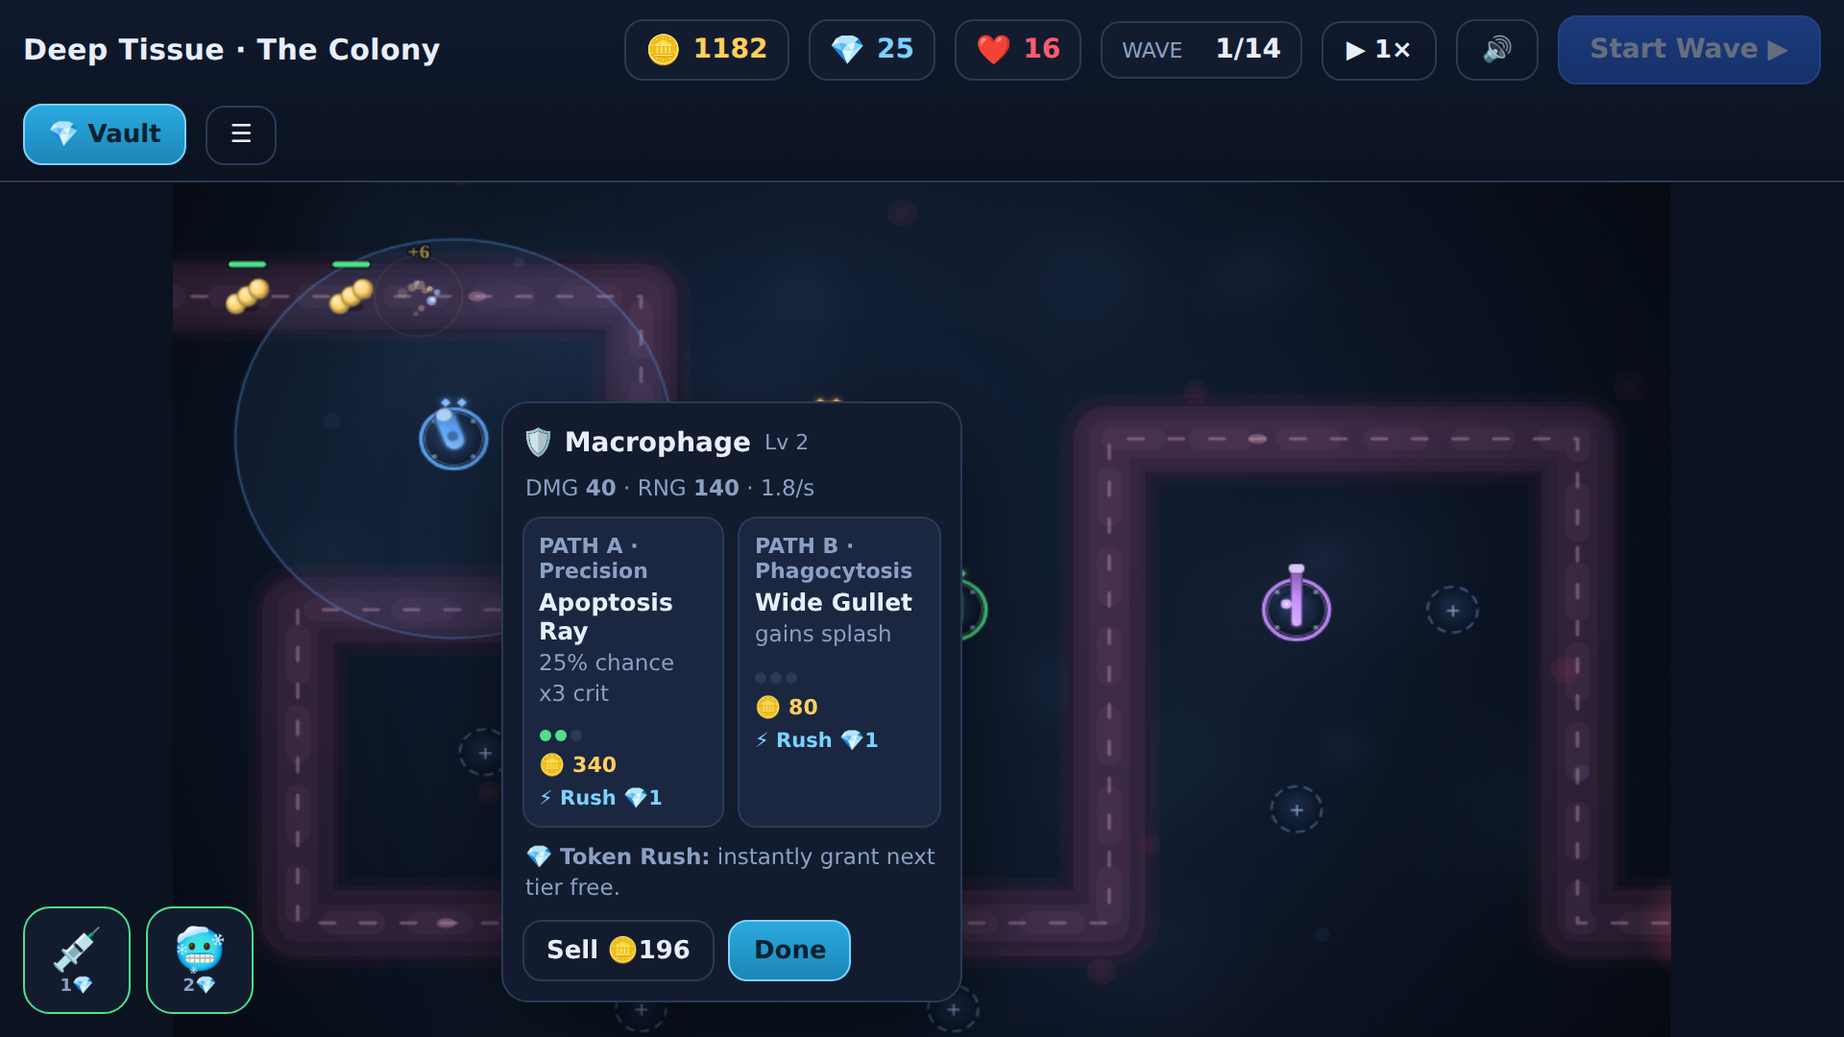
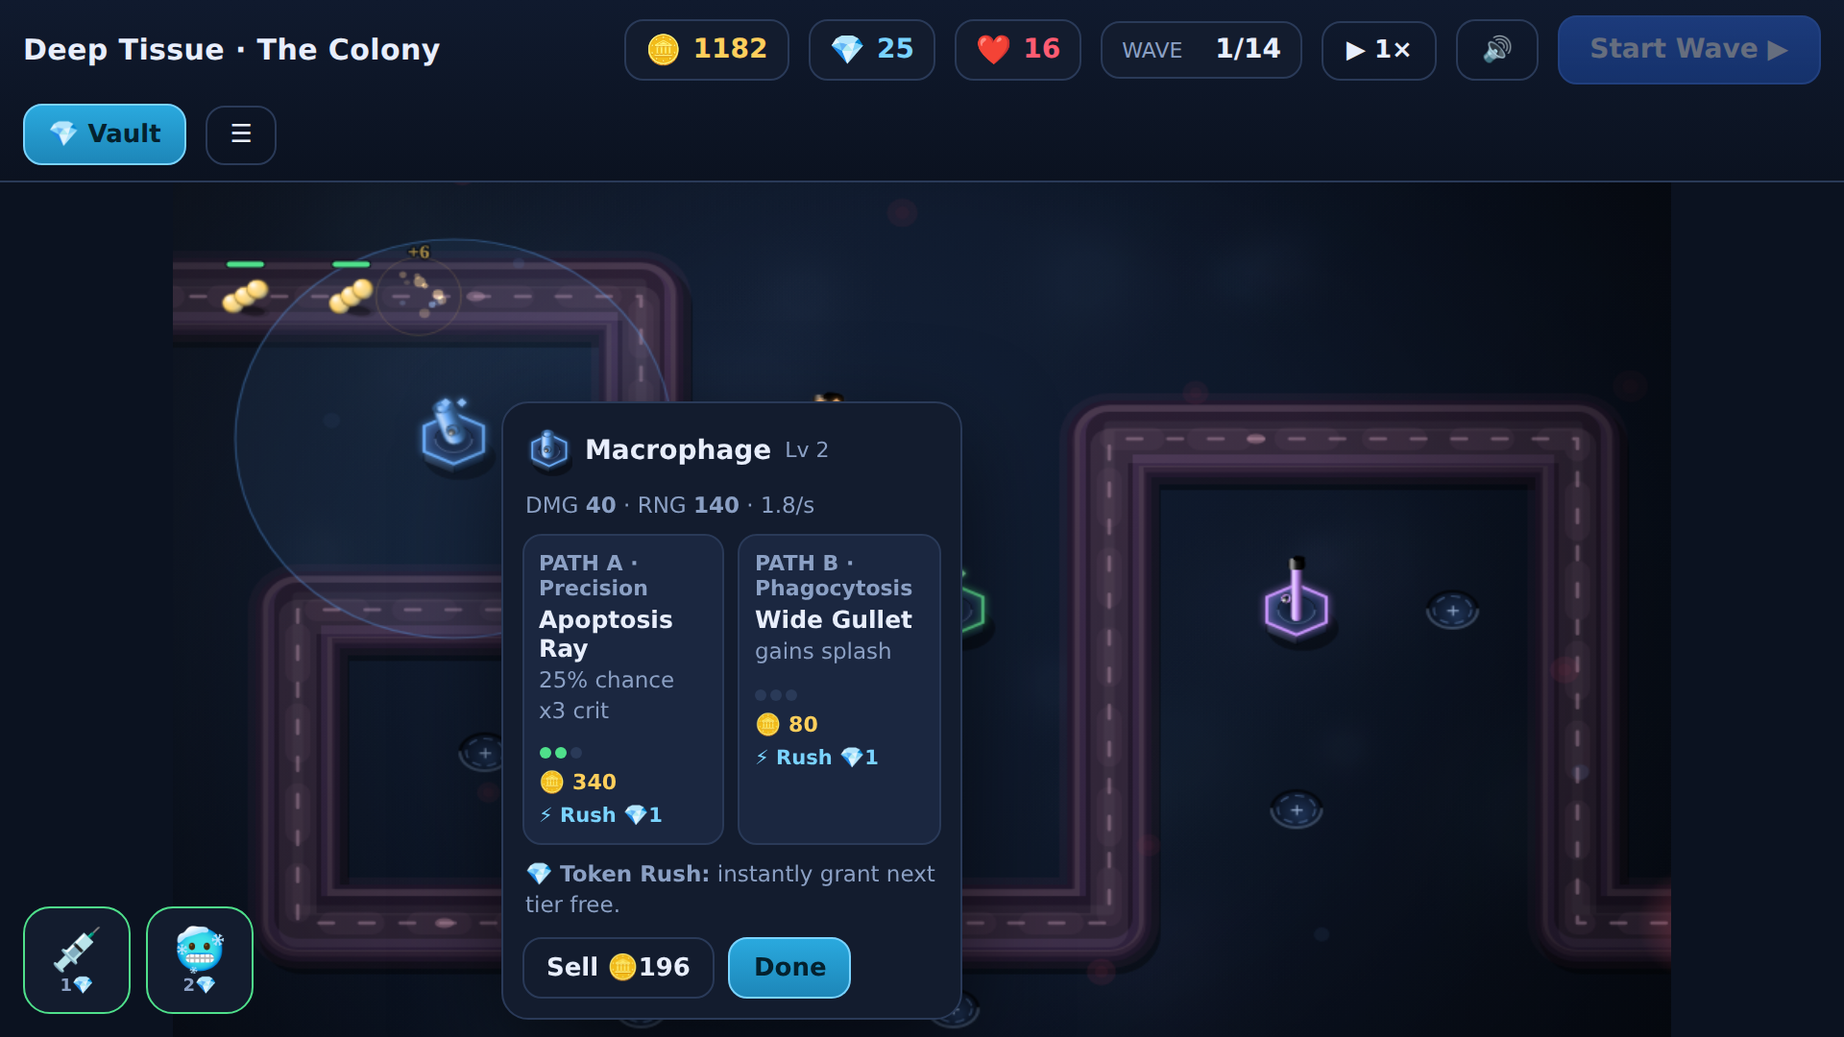
Upgrade artwork to pre-rendered-3D look modeled on top Play TD games
Reviewed the art direction of the leading Play Store tower defenses
(Bloons TD 6 renders 3D towers to sprites over 2D maps; polish comes
from consistent lighting, shadows, and volume). Reproduced that
pre-rendered-3D technique procedurally with one global key light
(top-left):

- Phong shading helpers (diffuse + specular hotspot + cool rim bounce)
  used across all creature and turret sprites
- Tower bases are extruded 3D hexagonal pedestals: lit top face,
  side faces shaded by facing, emissive colored trim, recessed
  elliptical turret mount, directional cast shadow
- Turrets rebuilt as shaded volumes: cylinder bodies with specular
  stripes and end caps, sphere joints, glass shine on the syringe,
  emissive frost orb
- Enemies re-shaded as dimensional creatures: capsule cylinder
  bacterium, phong sphere chains with inter-lobe ambient occlusion on
  MRSA, carved virus core, boss with self-shadowing and glowing eyes
- World depth: vessel is now a raised tube with directional drop
  shadow, top-edge highlight, carved inner occlusion, bounce light and
  gloss line; tissue gets a key-light gradient; build sockets are
  recessed ellipses with dark/lit lips
- All units cast soft directional shadows matching the key light

Still zero binary assets; 60fps held in the dense-wave perf probe.
Store screenshots regenerated; SW cache bumped to v6. All suites pass.

Claude-Session: https://claude.ai/code/session_01CBLR6UDHsp9bXg6zzSDAZ5

diff --git a/tower-defense/index.html b/tower-defense/index.html
@@ -717,30 +717,73 @@ function hexRGB(h){ const n=parseInt(h.slice(1),16); return [n>>16&255, n>>8&255
 function shade(h,f,a){ const c=hexRGB(h); const t=f<0?0:255, p=Math.abs(f);
   return `rgba(${Math.round(c[0]+(t-c[0])*p)},${Math.round(c[1]+(t-c[1])*p)},${Math.round(c[2]+(t-c[2])*p)},${a===undefined?1:a})`; }
 function mkCanvas(w,h){ const c=document.createElement('canvas'); c.width=w; c.height=h; return c; }
+/* ---- pre-rendered-3D shading (global light: top-left) ---- */
+function phongBall(x,bx,by,br,base,spec){
+  let g=x.createRadialGradient(bx-br*0.45,by-br*0.5,br*0.08,bx,by,br*1.05);
+  g.addColorStop(0,shade(base,0.7)); g.addColorStop(0.35,shade(base,0.25));
+  g.addColorStop(0.7,base); g.addColorStop(1,shade(base,-0.62));
+  x.fillStyle=g; x.beginPath(); x.arc(bx,by,br,0,7); x.fill();
+  g=x.createRadialGradient(bx-br*0.42,by-br*0.48,0,bx-br*0.42,by-br*0.48,br*0.4);
+  g.addColorStop(0,'rgba(255,255,255,'+(spec===undefined?0.8:spec)+')'); g.addColorStop(1,'rgba(255,255,255,0)');
+  x.fillStyle=g; x.beginPath(); x.arc(bx,by,br,0,7); x.fill();
+  x.save(); x.beginPath(); x.arc(bx,by,br,0,7); x.clip();
+  g=x.createRadialGradient(bx+br*0.55,by+br*0.6,br*0.15,bx+br*0.55,by+br*0.6,br*0.85);
+  g.addColorStop(0,'rgba(150,195,255,0.25)'); g.addColorStop(1,'rgba(150,195,255,0)');
+  x.fillStyle=g; x.fillRect(bx-br,by-br,br*2,br*2); x.restore();
+}
+function hcyl(x,x0,y0,w,h,col,r){  // horizontal cylinder body (lit from above)
+  let g=x.createLinearGradient(0,y0,0,y0+h);
+  g.addColorStop(0,shade(col,-0.1)); g.addColorStop(0.22,shade(col,0.68));
+  g.addColorStop(0.5,shade(col,0.08)); g.addColorStop(0.82,shade(col,-0.48)); g.addColorStop(1,shade(col,-0.62));
+  x.fillStyle=g; x.beginPath(); x.roundRect(x0,y0,w,h,r===undefined?h/2:r); x.fill();
+}
+function capEllipse(x,cx,cy,rx,ry,col){ // cylinder end cap
+  let g=x.createRadialGradient(cx-rx*0.3,cy-ry*0.4,rx*0.1,cx,cy,rx);
+  g.addColorStop(0,shade(col,0.5)); g.addColorStop(0.7,shade(col,-0.1)); g.addColorStop(1,shade(col,-0.5));
+  x.fillStyle=g; x.beginPath(); x.ellipse(cx,cy,rx,ry,0,0,7); x.fill();
+}
 
 /* ---- sprite cache: towers & enemies rendered once, blitted per frame ---- */
 const SPRITES={ towerBase:{}, towerGun:{}, enemy:{} };
 
 function towerBaseSprite(key){
   if(SPRITES.towerBase[key]) return SPRITES.towerBase[key];
-  const col=TOWERS[key].color, S=56, c=mkCanvas(S,S), x=c.getContext('2d'), m=S/2;
-  // drop shadow
-  x.fillStyle='rgba(0,0,0,0.45)'; x.beginPath(); x.ellipse(m,m+3,21,19,0,0,7); x.fill();
-  // plate
-  let g=x.createRadialGradient(m-6,m-8,4,m,m,22);
-  g.addColorStop(0,'#223454'); g.addColorStop(0.7,'#101c31'); g.addColorStop(1,'#0a1322');
-  x.fillStyle=g; x.beginPath(); x.arc(m,m,21,0,7); x.fill();
-  // colored rim
-  x.lineWidth=2.5; x.strokeStyle=shade(col,0,0.95); x.beginPath(); x.arc(m,m,21,0,7); x.stroke();
-  x.lineWidth=1; x.strokeStyle=shade(col,0.5,0.35); x.beginPath(); x.arc(m,m,18.5,0,7); x.stroke();
-  // inner disc
-  g=x.createRadialGradient(m-4,m-5,2,m,m,14);
-  g.addColorStop(0,'#2a3f66'); g.addColorStop(1,'#131f36');
-  x.fillStyle=g; x.beginPath(); x.arc(m,m,14,0,7); x.fill();
-  // bolts
-  x.fillStyle='rgba(180,205,240,0.55)';
-  for(let i=0;i<4;i++){ const a=Math.PI/4+i*Math.PI/2;
-    x.beginPath(); x.arc(m+Math.cos(a)*17.5, m+Math.sin(a)*17.5, 1.6, 0, 7); x.fill(); }
+  const col=TOWERS[key].color, S=60, c=mkCanvas(S,S), x=c.getContext('2d'), m=S/2;
+  const R=22, SQ=0.8, DEPTH=7, top=m-3;
+  const hex=dy=>{ const pts=[]; for(let i=0;i<6;i++){ const a=i*Math.PI/3+Math.PI/6;
+    pts.push([m+Math.cos(a)*R, top+Math.sin(a)*R*SQ+(dy||0)]); } return pts; };
+  const tp=hex(0), bp=hex(DEPTH);
+  // directional cast shadow
+  x.fillStyle='rgba(0,0,0,0.4)'; x.beginPath();
+  x.ellipse(m+4,top+DEPTH+6,R+1,R*SQ*0.9,0,0,7); x.fill();
+  // extruded side faces (front-facing edges only), lit from the left
+  for(let i=0;i<6;i++){ const a=tp[i], b=tp[(i+1)%6];
+    if((a[1]+b[1])/2 <= top) continue;
+    const midx=(a[0]+b[0])/2;
+    let g=x.createLinearGradient(0,top,0,top+R*SQ+DEPTH);
+    const lit=midx<m?0.12:-0.12;
+    g.addColorStop(0,shade('#233757',lit)); g.addColorStop(1,shade('#0a1322',lit*0.5));
+    x.fillStyle=g; x.beginPath();
+    x.moveTo(a[0],a[1]); x.lineTo(b[0],b[1]);
+    x.lineTo(bp[(i+1)%6][0],bp[(i+1)%6][1]); x.lineTo(bp[i][0],bp[i][1]);
+    x.closePath(); x.fill();
+    x.strokeStyle='rgba(0,0,0,0.35)'; x.lineWidth=0.7; x.stroke(); }
+  // top face, lit top-left
+  let g=x.createLinearGradient(m-R,top-R*SQ,m+R,top+R*SQ);
+  g.addColorStop(0,'#3a5484'); g.addColorStop(0.45,'#22345a'); g.addColorStop(1,'#101c33');
+  x.fillStyle=g; x.beginPath();
+  tp.forEach((pt,i)=> i?x.lineTo(pt[0],pt[1]):x.moveTo(pt[0],pt[1])); x.closePath(); x.fill();
+  // emissive colored trim on the top face
+  x.lineWidth=2; x.strokeStyle=shade(col,0.1,0.95);
+  x.shadowColor=col; x.shadowBlur=5; x.stroke(); x.shadowBlur=0;
+  // recessed turret mount
+  g=x.createRadialGradient(m-3,top-3,2,m,top,12);
+  g.addColorStop(0,'#101b30'); g.addColorStop(0.8,'#1c2c4c'); g.addColorStop(1,'#2c4066');
+  x.fillStyle=g; x.beginPath(); x.ellipse(m,top,12,12*SQ,0,0,7); x.fill();
+  x.strokeStyle='rgba(0,0,0,0.5)'; x.lineWidth=1;
+  x.beginPath(); x.ellipse(m,top,12,12*SQ,0,Math.PI,Math.PI*2); x.stroke();
+  x.strokeStyle='rgba(190,215,255,0.25)';
+  x.beginPath(); x.ellipse(m,top,12,12*SQ,0,0,Math.PI); x.stroke();
   return SPRITES.towerBase[key]=c;
 }
 
@@ -748,42 +791,40 @@ function towerGunSprite(key){
   if(SPRITES.towerGun[key]) return SPRITES.towerGun[key];
   const col=TOWERS[key].color, c=mkCanvas(60,30), x=c.getContext('2d');
   // pivot at (20,15), gun points right
-  const grad=(x0,x1,l,d)=>{ const g=x.createLinearGradient(x0,6,x1,24);
-    g.addColorStop(0,shade(col,l)); g.addColorStop(0.5,col); g.addColorStop(1,shade(col,d)); return g; };
   x.lineJoin='round';
-  if(key==='macro'){           // organic engulfing pod
-    x.fillStyle=grad(10,44,0.45,-0.4);
-    x.beginPath(); x.roundRect(12,8,30,14,7); x.fill();
-    x.strokeStyle=shade(col,-0.5); x.lineWidth=1.5; x.stroke();
-    x.fillStyle=shade(col,0.65,0.9); x.beginPath(); x.ellipse(38,15,4.5,5,0,0,7); x.fill();
-    x.fillStyle=shade(col,-0.35); x.beginPath(); x.arc(22,15,3.5,0,7); x.fill();
-  } else if(key==='neutro'){   // stout mortar
-    x.fillStyle=grad(10,46,0.4,-0.45);
-    x.beginPath(); x.roundRect(10,7,34,16,4); x.fill();
-    x.strokeStyle=shade(col,-0.55); x.lineWidth=1.5; x.stroke();
-    x.fillStyle=shade(col,-0.4); x.fillRect(24,6,4,18);
-    x.fillStyle=shade(col,0.5,0.95); x.beginPath(); x.roundRect(40,5,6,20,3); x.fill();
-    x.strokeStyle=shade(col,-0.5); x.stroke();
-  } else if(key==='abx'){      // antibiotic syringe
-    x.fillStyle=grad(8,34,0.5,-0.35);
-    x.beginPath(); x.roundRect(10,9,24,12,4); x.fill();
-    x.strokeStyle=shade(col,-0.5); x.lineWidth=1.5; x.stroke();
-    x.fillStyle='rgba(220,235,255,0.9)'; x.fillRect(34,13.5,12,3);      // needle
-    x.fillStyle=shade(col,-0.25); x.beginPath(); x.roundRect(4,11,7,8,2); x.fill(); // plunger
-    x.fillStyle='rgba(255,255,255,0.35)'; x.fillRect(14,11,14,3);       // glass shine
-  } else if(key==='tcell'){    // long-range receptor rifle
-    x.fillStyle=grad(8,50,0.4,-0.45);
-    x.beginPath(); x.roundRect(8,11.5,42,7,3.5); x.fill();
-    x.strokeStyle=shade(col,-0.5); x.lineWidth=1.2; x.stroke();
-    x.fillStyle=shade(col,0.55,0.95); x.beginPath(); x.roundRect(46,10,6,10,2.5); x.fill();
-    x.fillStyle=shade(col,0.3); x.beginPath(); x.arc(24,8.5,3.4,0,7); x.fill();   // scope
-    x.fillStyle='#e8eefc'; x.beginPath(); x.arc(24,8.5,1.3,0,7); x.fill();
-  } else {                     // fever coil: crystal chevrons
-    x.strokeStyle=shade(col,0.15,0.95); x.lineWidth=3; x.lineCap='round';
+  if(key==='macro'){           // organic engulfing pod: shaded capsule + core
+    hcyl(x,12,8,30,14,col,7);
+    capEllipse(x,40,15,4.5,7,col);
+    phongBall(x,22,15,4.2,shade(col,-0.2),0.6);
+    x.strokeStyle=shade(col,-0.55,0.8); x.lineWidth=1; x.beginPath(); x.roundRect(12,8,30,14,7); x.stroke();
+  } else if(key==='neutro'){   // stout mortar: barrel + breech band + muzzle ring
+    hcyl(x,10,7,34,16,col,5);
+    hcyl(x,23,5,5,20,shade(col,-0.25),2.5);
+    hcyl(x,40,5,7,20,shade(col,0.12),3.5);
+    capEllipse(x,46,15,2.6,9,shade(col,-0.15));
+    x.fillStyle='rgba(0,0,0,0.55)'; x.beginPath(); x.ellipse(46,15,1.6,6,0,0,7); x.fill();
+  } else if(key==='abx'){      // syringe: glass barrel + plunger + needle
+    hcyl(x,10,9,24,12,col,4);
+    x.fillStyle='rgba(255,255,255,0.4)'; x.beginPath(); x.roundRect(13,10.5,17,3,1.5); x.fill();
+    hcyl(x,3,11,8,8,shade(col,-0.3),2);
+    let g=x.createLinearGradient(0,13,0,17);
+    g.addColorStop(0,'#f4f9ff'); g.addColorStop(0.5,'#b9c9de'); g.addColorStop(1,'#7787a0');
+    x.fillStyle=g; x.fillRect(34,13.5,12,3);
+    capEllipse(x,34,15,1.6,6,shade(col,0.1));
+  } else if(key==='tcell'){    // receptor rifle: long barrel + scope sphere + muzzle
+    hcyl(x,8,11.5,42,7,col,3.5);
+    hcyl(x,44,9.5,8,11,shade(col,0.12),3);
+    capEllipse(x,52,15,1.8,5.5,shade(col,0.05));
+    phongBall(x,24,8.5,3.6,shade(col,0.15),0.9);
+    x.fillStyle='#0c1424'; x.beginPath(); x.arc(24.6,8.9,1.2,0,7); x.fill();
+  } else {                     // fever coil: crystal chevrons + frost orb
+    x.lineCap='round';
     for(let i=0;i<3;i++){ const bx=14+i*10;
-      x.beginPath(); x.moveTo(bx,8); x.lineTo(bx+7,15); x.lineTo(bx,22); x.stroke(); }
-    x.fillStyle=shade(col,0.6,0.95); x.beginPath(); x.arc(46,15,4,0,7); x.fill();
-    x.strokeStyle=shade(col,-0.3); x.lineWidth=1; x.beginPath(); x.arc(46,15,4,0,7); x.stroke();
+      x.strokeStyle=shade(col,-0.35,0.9); x.lineWidth=4.2;
+      x.beginPath(); x.moveTo(bx,9); x.lineTo(bx+7,15); x.lineTo(bx,21); x.stroke();
+      x.strokeStyle=shade(col,0.55,0.95); x.lineWidth=2;
+      x.beginPath(); x.moveTo(bx-0.5,8); x.lineTo(bx+6.5,14.5); x.lineTo(bx-0.5,20.5); x.stroke(); }
+    phongBall(x,46,15,4.5,col,0.95);
   }
   return SPRITES.towerGun[key]=c;
 }
@@ -792,21 +833,23 @@ function enemySprite(type){
   if(SPRITES.enemy[type]) return SPRITES.enemy[type];
   const def=ENEMIES[type], col=def.color, r=def.r, S=Math.ceil(r*3.6+8), m=S/2;
   const c=mkCanvas(S,S), x=c.getContext('2d');
-  const ball=(bx,by,br,base)=>{ const g=x.createRadialGradient(bx-br*0.35,by-br*0.4,br*0.15,bx,by,br);
-    g.addColorStop(0,shade(base,0.55)); g.addColorStop(0.55,base); g.addColorStop(1,shade(base,-0.45));
-    x.fillStyle=g; x.beginPath(); x.arc(bx,by,br,0,7); x.fill(); };
+  const ball=(bx,by,br,base)=>phongBall(x,bx,by,br,base,0.7);
   if(type==='bacterium'){
-    const g=x.createLinearGradient(m,m-r,m,m+r);
-    g.addColorStop(0,shade(col,0.5)); g.addColorStop(0.5,col); g.addColorStop(1,shade(col,-0.45));
-    x.fillStyle=g; x.beginPath(); x.roundRect(m-r*1.25,m-r*0.75,r*2.5,r*1.5,r*0.75); x.fill();
-    x.strokeStyle=shade(col,-0.55); x.lineWidth=2; x.stroke();
-    x.fillStyle=shade(col,-0.35,0.9);
-    [[-0.5,-0.1],[0.1,0.2],[0.55,-0.15]].forEach(o=>{ x.beginPath(); x.arc(m+o[0]*r,m+o[1]*r,r*0.2,0,7); x.fill(); });
-    x.fillStyle='rgba(255,255,255,0.3)'; x.beginPath(); x.ellipse(m-r*0.4,m-r*0.42,r*0.7,r*0.22,-0.2,0,7); x.fill();
+    hcyl(x,m-r*1.25,m-r*0.75,r*2.5,r*1.5,col,r*0.75);
+    x.strokeStyle=shade(col,-0.55,0.8); x.lineWidth=1.5;
+    x.beginPath(); x.roundRect(m-r*1.25,m-r*0.75,r*2.5,r*1.5,r*0.75); x.stroke();
+    [[-0.5,-0.05],[0.1,0.2],[0.55,-0.1]].forEach(o=>phongBall(x,m+o[0]*r,m+o[1]*r,r*0.22,shade(col,-0.25),0.5));
+    let g=x.createRadialGradient(m-r*0.6,m-r*0.5,0,m-r*0.6,m-r*0.5,r*0.7);
+    g.addColorStop(0,'rgba(255,255,255,0.65)'); g.addColorStop(1,'rgba(255,255,255,0)');
+    x.fillStyle=g; x.beginPath(); x.ellipse(m-r*0.45,m-r*0.4,r*0.75,r*0.3,-0.25,0,7); x.fill();
   } else if(type==='strep'){
     [[-0.85,0.55],[0,0],[0.85,-0.55]].forEach(o=>ball(m+o[0]*r, m+o[1]*r, r*0.78, col));
   } else if(type==='staph'){
-    [[0,-0.62],[-0.62,0.15],[0.62,0.15],[0,0.7],[0,0]].forEach(o=>ball(m+o[0]*r, m+o[1]*r, r*0.55, col));
+    [[0.62,0.15],[0,0.7],[0,-0.62],[-0.62,0.15],[0,0]].forEach((o,i)=>{
+      ball(m+o[0]*r, m+o[1]*r, r*0.55, i<2?shade(col,-0.18):col);
+      if(i<4){ x.fillStyle='rgba(0,0,0,0.22)';
+        x.beginPath(); x.ellipse(m+o[0]*r*0.55, m+o[1]*r*0.55, r*0.4, r*0.3, 0, 0, 7); x.fill(); } });
+    ball(m,m,r*0.55,shade(col,0.08));
     x.strokeStyle='rgba(230,240,255,0.55)'; x.lineWidth=2.2;
     x.beginPath(); x.arc(m,m,r*1.18,0,7); x.stroke();
     x.strokeStyle='rgba(230,240,255,0.2)'; x.lineWidth=5;
@@ -818,10 +861,14 @@ function enemySprite(type){
       x.lineTo(m+Math.cos(a)*r*1.65, m+Math.sin(a)*r*1.65); x.stroke();
       x.fillStyle=shade(col,0.35); x.beginPath(); x.arc(m+Math.cos(a)*r*1.65, m+Math.sin(a)*r*1.65, r*0.24, 0, 7); x.fill(); }
     ball(m,m,r*0.95,col);
-    x.fillStyle=shade(col,-0.4,0.85); x.beginPath(); x.arc(m,m,r*0.4,0,7); x.fill();
+    let g=x.createRadialGradient(m,m,r*0.1,m,m,r*0.45);
+    g.addColorStop(0,shade(col,-0.55,0.95)); g.addColorStop(1,shade(col,-0.2,0.2));
+    x.fillStyle=g; x.beginPath(); x.arc(m,m,r*0.42,0,7); x.fill();
   } else if(type==='fungus'){
-    x.fillStyle='#e8d9c3'; x.beginPath(); x.roundRect(m-r*0.4,m,r*0.8,r*0.95,r*0.3); x.fill();
-    x.strokeStyle='rgba(90,60,40,0.4)'; x.lineWidth=1.5; x.stroke();
+    let sg=x.createLinearGradient(m-r*0.4,0,m+r*0.4,0);
+    sg.addColorStop(0,'#f5ead8'); sg.addColorStop(0.45,'#e2d0b5'); sg.addColorStop(1,'#a9906e');
+    x.fillStyle=sg; x.beginPath(); x.roundRect(m-r*0.4,m,r*0.8,r*0.95,r*0.3); x.fill();
+    x.strokeStyle='rgba(90,60,40,0.35)'; x.lineWidth=1; x.stroke();
     const g=x.createRadialGradient(m-r*0.3,m-r*0.6,r*0.1,m,m-r*0.25,r*1.15);
     g.addColorStop(0,shade(col,0.45)); g.addColorStop(0.7,col); g.addColorStop(1,shade(col,-0.4));
     x.fillStyle=g; x.beginPath(); x.moveTo(m-r*1.1,m+r*0.05);
@@ -849,14 +896,17 @@ function enemySprite(type){
       x.beginPath(); x.moveTo(m+Math.cos(a)*r*0.8, m+Math.sin(a)*r*0.8);
       x.lineTo(m+Math.cos(a)*r*1.35, m+Math.sin(a)*r*1.35); x.stroke();
       x.fillStyle=shade(col,0.15); x.beginPath(); x.arc(m+Math.cos(a)*r*1.35, m+Math.sin(a)*r*1.35, r*0.12,0,7); x.fill(); }
-    const g=x.createRadialGradient(m-r*0.3,m-r*0.35,r*0.1,m,m,r);
-    g.addColorStop(0,shade(col,0.25)); g.addColorStop(0.6,shade(col,-0.15)); g.addColorStop(1,'#3d0a14');
+    phongBall(x,m,m,r,shade(col,-0.12),0.5);
+    let g=x.createRadialGradient(m+r*0.35,m+r*0.4,r*0.1,m,m,r*1.02);
+    g.addColorStop(0,'rgba(20,2,6,0)'); g.addColorStop(0.75,'rgba(20,2,6,0)'); g.addColorStop(1,'rgba(20,2,6,0.65)');
     x.fillStyle=g; x.beginPath(); x.arc(m,m,r,0,7); x.fill();
-    x.strokeStyle='#2a060d'; x.lineWidth=2.5; x.stroke();
-    // scowling eyes
+    x.strokeStyle='#2a060d'; x.lineWidth=2; x.beginPath(); x.arc(m,m,r,0,7); x.stroke();
+    // scowling eyes (emissive)
+    x.shadowColor='#ffe066'; x.shadowBlur=6;
     x.fillStyle='#ffe066';
     x.beginPath(); x.ellipse(m-r*0.34,m-r*0.18,r*0.16,r*0.1,-0.5,0,7); x.fill();
     x.beginPath(); x.ellipse(m+r*0.34,m-r*0.18,r*0.16,r*0.1,0.5,0,7); x.fill();
+    x.shadowBlur=0;
     x.fillStyle='#2a060d';
     x.beginPath(); x.arc(m-r*0.32,m-r*0.18,r*0.05,0,7); x.fill();
     x.beginPath(); x.arc(m+r*0.36,m-r*0.18,r*0.05,0,7); x.fill();
@@ -930,17 +980,26 @@ function buildBG(){
     g=c.createRadialGradient(bx,by,br*0.2,bx,by,br);
     g.addColorStop(0,`rgba(${90+rnd()*40|0},${120+rnd()*50|0},${190},0.045)`); g.addColorStop(1,'rgba(0,0,0,0)');
     c.fillStyle=g; c.beginPath(); c.arc(bx,by,br,0,7); c.fill(); }
-  // vessel: glow, wall, lumen, depth
+  // vessel: raised 3D tube — drop shadow, walls, carved lumen, gloss
   const p=G.L.path;
-  const stroke=(w,style)=>{ c.strokeStyle=style; c.lineWidth=w;
-    c.beginPath(); c.moveTo(p[0][0],p[0][1]); for(let i=1;i<p.length;i++)c.lineTo(p[i][0],p[i][1]); c.stroke(); };
+  const stroke=(w,style,ox,oy)=>{ c.save(); c.translate(ox||0,oy||0);
+    c.strokeStyle=style; c.lineWidth=w;
+    c.beginPath(); c.moveTo(p[0][0],p[0][1]); for(let i=1;i<p.length;i++)c.lineTo(p[i][0],p[i][1]); c.stroke(); c.restore(); };
   c.lineJoin='round'; c.lineCap='round';
-  stroke(64,'rgba(120,60,90,0.10)');       // outer glow
-  stroke(52,'#251b33');                     // vessel wall
-  stroke(46,'#31243f');                     // wall inner
-  g=c.createLinearGradient(0,0,0,H); g.addColorStop(0,'#3a2a44'); g.addColorStop(1,'#2c2138');
+  stroke(58,'rgba(0,0,0,0.38)',4,7);        // directional drop shadow (raised tube)
+  stroke(64,'rgba(150,80,115,0.10)');       // ambient glow
+  stroke(54,'#241a31');                     // outer wall
+  stroke(47,'#37273f');                     // wall
+  stroke(44,'rgba(255,225,240,0.10)',0,-2); // top wall highlight (light from above)
+  g=c.createLinearGradient(0,0,0,H); g.addColorStop(0,'#453150'); g.addColorStop(1,'#342544');
   stroke(38,g);                             // lumen
-  stroke(26,'rgba(70,48,80,0.55)');         // center depth
+  stroke(30,'rgba(0,0,0,0.32)',0,-4);       // upper inner occlusion (carved)
+  stroke(24,'rgba(255,235,245,0.08)',0,5);  // lower bounce light
+  stroke(7,'rgba(255,255,255,0.05)',0,-9);  // gloss line
+  // key light from top-left
+  g=c.createLinearGradient(0,0,W*0.9,H*0.9);
+  g.addColorStop(0,'rgba(160,190,240,0.07)'); g.addColorStop(0.5,'rgba(0,0,0,0)'); g.addColorStop(1,'rgba(0,0,0,0.22)');
+  c.fillStyle=g; c.fillRect(0,0,W,H);
   // vignette
   g=c.createRadialGradient(W/2,H/2,H*0.45,W/2,H/2,H*0.95);
   g.addColorStop(0,'rgba(0,0,0,0)'); g.addColorStop(1,'rgba(0,0,0,0.42)');
@@ -1038,20 +1097,25 @@ function drawSlot(slot){
   const t=slot.tower;
   if(!t){
     const sel=G.selectedSlot===slot;
-    let g=CTX.createRadialGradient(slot.x,slot.y-3,2,slot.x,slot.y,17);
-    g.addColorStop(0,sel?'rgba(95,169,255,0.35)':'rgba(26,44,74,0.85)'); g.addColorStop(1,'rgba(10,19,34,0.9)');
-    CTX.fillStyle=g; CTX.beginPath(); CTX.arc(slot.x,slot.y,16,0,7); CTX.fill();
-    CTX.strokeStyle=sel?'rgba(150,200,255,0.9)':'rgba(120,160,220,0.45)';
-    CTX.lineWidth=1.5; CTX.setLineDash([5,5]); CTX.lineDashOffset=-G.elapsed*8;
-    CTX.beginPath(); CTX.arc(slot.x,slot.y,16,0,7); CTX.stroke(); CTX.setLineDash([]);
-    CTX.fillStyle='rgba(180,205,240,0.75)'; CTX.font='15px Outfit'; CTX.textAlign='center';
-    CTX.fillText('＋',slot.x,slot.y+5); CTX.textAlign='left';
+    let g=CTX.createRadialGradient(slot.x+3,slot.y+4,2,slot.x,slot.y,17);
+    g.addColorStop(0,sel?'rgba(95,169,255,0.4)':'rgba(30,50,84,0.9)'); g.addColorStop(1,'rgba(6,12,24,0.95)');
+    CTX.fillStyle=g; CTX.beginPath(); CTX.ellipse(slot.x,slot.y,16,13,0,0,7); CTX.fill();
+    // recessed edge: dark top lip, lit bottom lip
+    CTX.strokeStyle='rgba(0,0,0,0.6)'; CTX.lineWidth=2;
+    CTX.beginPath(); CTX.ellipse(slot.x,slot.y,16,13,0,Math.PI,Math.PI*2); CTX.stroke();
+    CTX.strokeStyle='rgba(170,200,245,0.28)';
+    CTX.beginPath(); CTX.ellipse(slot.x,slot.y,16,13,0,0,Math.PI); CTX.stroke();
+    CTX.strokeStyle=sel?'rgba(150,200,255,0.9)':'rgba(120,160,220,0.4)';
+    CTX.lineWidth=1.2; CTX.setLineDash([5,5]); CTX.lineDashOffset=-G.elapsed*8;
+    CTX.beginPath(); CTX.ellipse(slot.x,slot.y,12,9.5,0,0,7); CTX.stroke(); CTX.setLineDash([]);
+    CTX.fillStyle='rgba(180,205,240,0.8)'; CTX.font='14px Outfit'; CTX.textAlign='center';
+    CTX.fillText('＋',slot.x,slot.y+4.5); CTX.textAlign='left';
     return;
   }
   const def=TOWERS[t.key];
-  CTX.drawImage(towerBaseSprite(t.key), slot.x-28, slot.y-28);
+  CTX.drawImage(towerBaseSprite(t.key), slot.x-30, slot.y-27);
   // rotating gun with recoil
-  CTX.save(); CTX.translate(slot.x,slot.y); CTX.rotate(t.angle||0);
+  CTX.save(); CTX.translate(slot.x,slot.y-4); CTX.rotate(t.angle||0);
   CTX.drawImage(towerGunSprite(t.key), -20-(t.recoil||0)*4, -15);
   CTX.restore();
   // tier pips: glowing diamonds along the top arc
@@ -1068,9 +1132,12 @@ function drawEnemy(e){
   const spr=enemySprite(e.type), half=spr.width/2;
   const seed=e.seed||0;
   const bob=e.flying ? Math.sin(G.elapsed*4+seed)*3 : 0;
-  // shadow
-  CTX.globalAlpha=e.flying?0.22:0.3; CTX.fillStyle='#000';
-  CTX.beginPath(); CTX.ellipse(p.x, p.y+e.r*(e.flying?1.5:0.85), e.r*0.9, e.r*0.34, 0, 0, 7); CTX.fill();
+  // directional cast shadow (light from top-left)
+  const shOff=e.flying?7:4;
+  CTX.globalAlpha=e.flying?0.2:0.32; CTX.fillStyle='#000';
+  CTX.beginPath(); CTX.ellipse(p.x+shOff, p.y+e.r*(e.flying?1.5:0.85)+shOff*0.6, e.r*0.95, e.r*0.36, 0.15, 0, 7); CTX.fill();
+  CTX.globalAlpha=0.14; CTX.beginPath();
+  CTX.ellipse(p.x+shOff, p.y+e.r*(e.flying?1.5:0.85)+shOff*0.6, e.r*1.3, e.r*0.5, 0.15, 0, 7); CTX.fill();
   CTX.globalAlpha=1;
   // body with wobble squash/stretch (viruses & boss slowly spin)
   const wob=0.05*Math.sin(G.elapsed*6+seed);

diff --git a/tower-defense/sw.js b/tower-defense/sw.js
@@ -1,6 +1,6 @@
 /* Immunopolis service worker: cache-first app shell for offline play.
    Bump CACHE_VERSION on every release that changes any shell file. */
-const CACHE_VERSION = 'immunopolis-v5';
+const CACHE_VERSION = 'immunopolis-v6';
 const SHELL = [
   './',
   './index.html',
